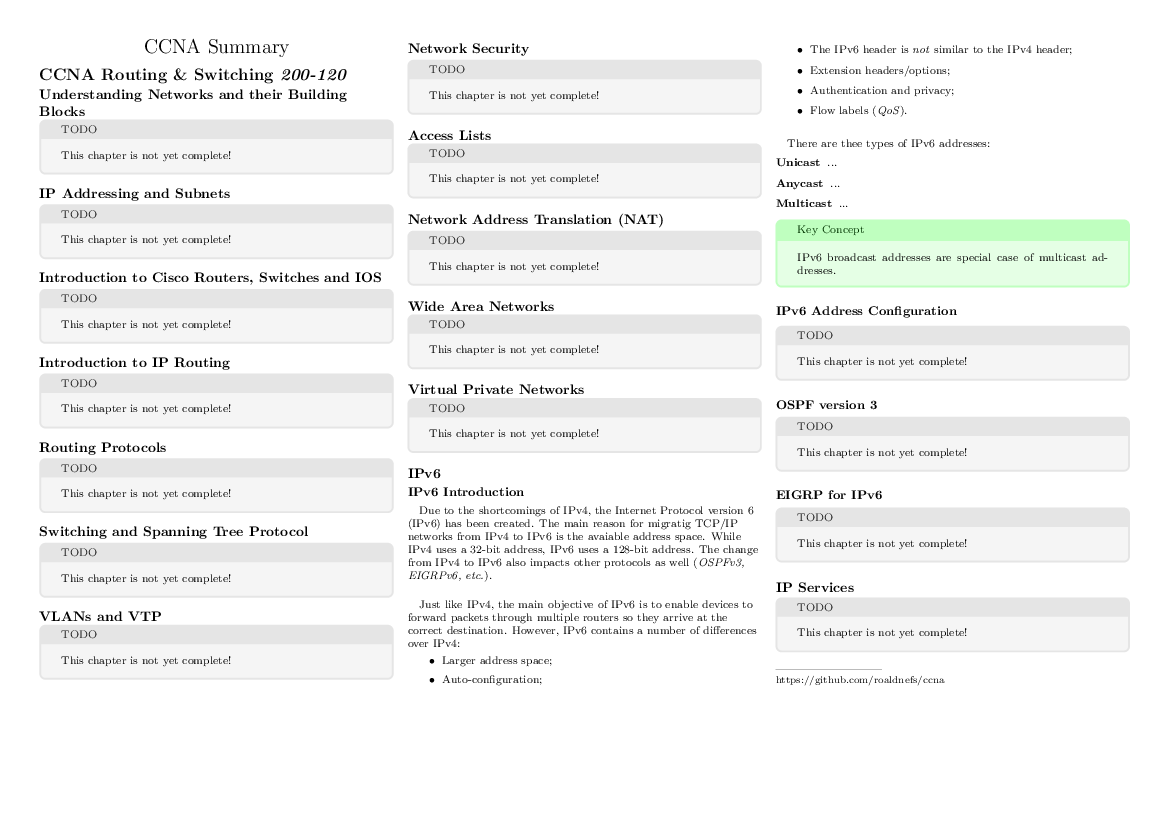
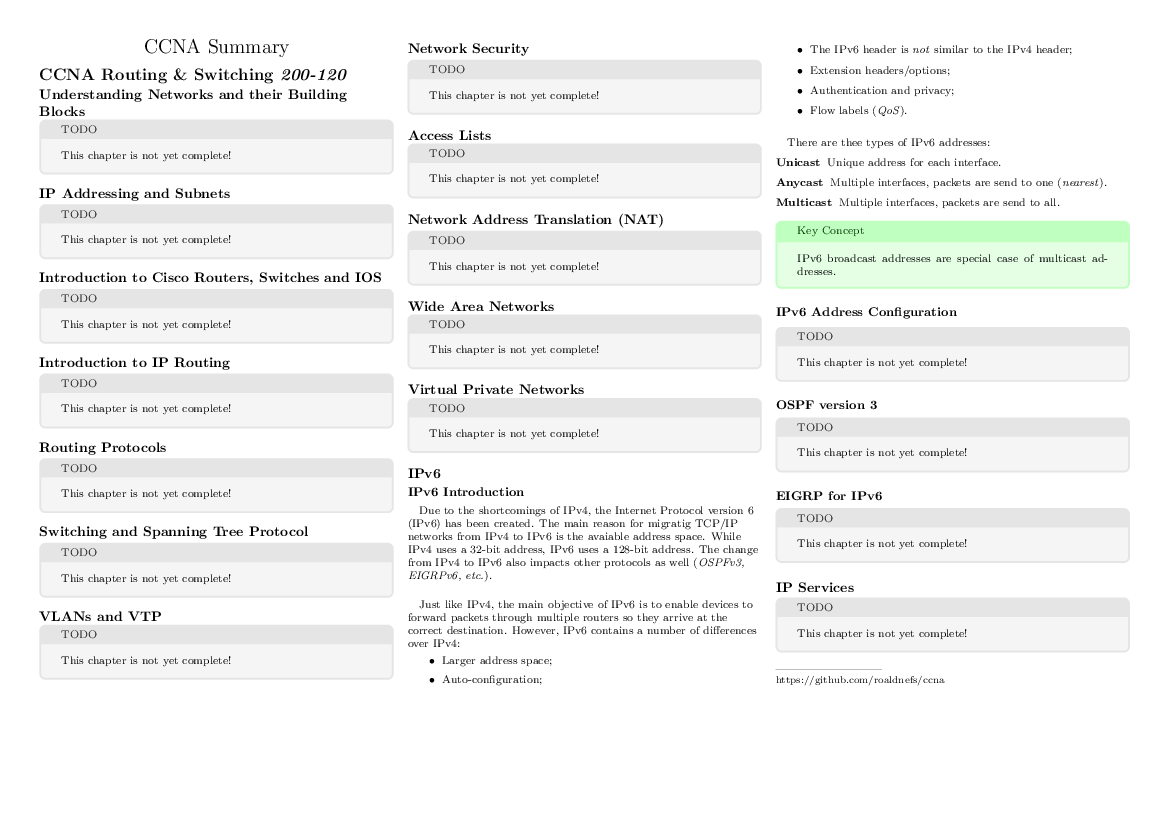
Updated IPv6 chapter

Changed region(s): [[0.6775, 0.1511, 0.9547, 0.4534], [0.6775, 0.7557, 0.8315, 0.786], [0.6775, 0.5744, 0.7391, 0.6348]]

diff --git a/summary.tex b/summary.tex
@@ -167,9 +167,9 @@ However, IPv6 contains a number of differences over IPv4:
 \paragraph{}
 There are thee types of IPv6 addresses:
 \begin{description}
-	\item[Unicast] ...
-	\item[Anycast] ...
-	\item[Multicast] ...
+	\item[Unicast] Unique address for each interface.
+	\item[Anycast] Multiple interfaces, packets are send to one (\textit{nearest}).
+	\item[Multicast] Multiple interfaces, packets are send to all.
 \end{description}
 
 \begin{textbox}{green}{Key Concept}
